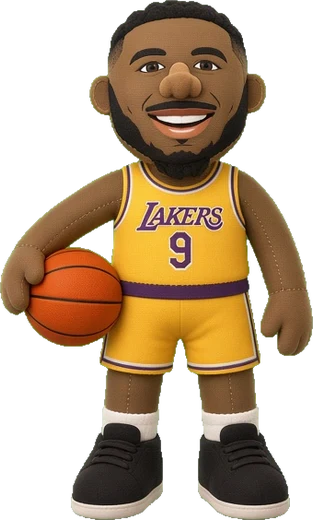
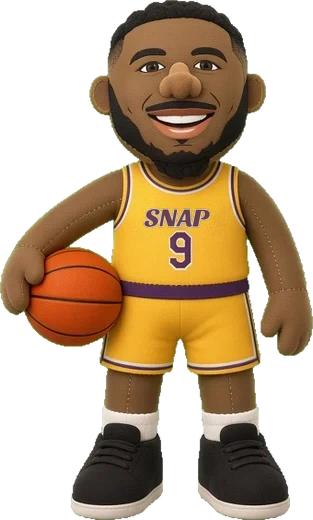
Pinco Pooh Snap v1.1.1: original SNAP wordmark on Bronny's jersey, fresh 3D course-card thumbnails

Changed region(s): [[0.4313, 0.3692, 0.7188, 0.4615]]

diff --git a/pincopoohsnap/js/ui.js b/pincopoohsnap/js/ui.js
@@ -38,7 +38,7 @@ const HS={KEY:'pincopoohsnap_v1',lang:'en',scr:'sTitle',reg:'la',
   $('mRegs').innerHTML=REGIONS.map(r=>{const first=COURSES.findIndex(c=>c.reg===r.id);const ok=this.unlockedIdx(first);return`<button class="chip ${r.id===this.reg?'on':''} ${ok?'':'lock'}" data-reg="${r.id}">${ok?'':'🔒 '}${this.L(r)}</button>`;}).join('');
   $('mRegs').querySelectorAll('[data-reg]').forEach(b=>b.onclick=()=>{AU.play('ui');this.reg=b.dataset.reg;this.renderMap();});
   $('mList').innerHTML=COURSES.map((co,i)=>{if(co.reg!==this.reg)return'';const ok=this.unlockedIdx(i);const prev=COURSES[i-1];
-   return`<div class="ccard ${ok?'':'lock'}" data-i="${i}"><div class="cimg" style="background-image:url(art/bg_${co.bg}.webp)">${s.secrets[co.id]?'<span class="sec">★</span>':''}${co.fork?'<span class="fork">🔀</span>':''}</div>
+   return`<div class="ccard ${ok?'':'lock'}" data-i="${i}"><div class="cimg" style="background-image:url(art/th_${co.id}.webp)">${s.secrets[co.id]?'<span class="sec">★</span>':''}${co.fork?'<span class="fork">🔀</span>':''}</div>
     <div class="cinfo"><b>${this.L(co)}</b><small>${ok?this.L(co.blurb):this.T('needPts',{n:co.need.toLocaleString(),c:prev?this.L(prev):''})}</small>${ok&&s.best[co.id]?`<em>${this.T('best')} ${s.best[co.id].toLocaleString()}</em>`:''}</div>
     <button class="btn ${ok?'pink':''} go" ${ok?'':'disabled'}>${ok?this.T('go'):'🔒'}</button></div>`;}).join('');
   $('mList').querySelectorAll('.ccard').forEach(c=>{const i=+c.dataset.i;c.onclick=()=>{if(!this.unlockedIdx(i)){AU.play('back');return;}AU.play('ui');this.play(COURSES[i]);};});
@@ -51,7 +51,7 @@ const HS={KEY:'pincopoohsnap_v1',lang:'en',scr:'sTitle',reg:'la',
   this.rv.groups=groups;const keys=CAST_ORDER.filter(c=>groups[c]);
   if(!keys.length){this.summary();return;}
   for(const c of keys){let best=null,bv=-1;for(const p of groups[c]){const v=G.evalPhoto(p).total;if(v>bv){bv=v;best=p;}}this.rv.sel[c]=best.id;}
-  $('rGroups').innerHTML=keys.map(c=>`<div class="rg"><div class="rgh"><img src="art/c_${c}_1.webp" alt=""><b>${this.cn(c)}</b><small>×${groups[c].length}</small></div><div class="rrow">${groups[c].map(p=>`<button class="ph ${this.rv.sel[c]===p.id?'on':''}" data-c="${c}" data-id="${p.id}" style="background-image:url(${p.img})"></button>`).join('')}</div></div>`).join('');
+  $('rGroups').innerHTML=keys.map(c=>`<div class="rg"><div class="rgh"><img src="art/c_${c}_1.webp?v=${window.__BUILD__||''}" alt=""><b>${this.cn(c)}</b><small>×${groups[c].length}</small></div><div class="rrow">${groups[c].map(p=>`<button class="ph ${this.rv.sel[c]===p.id?'on':''}" data-c="${c}" data-id="${p.id}" style="background-image:url(${p.img})"></button>`).join('')}</div></div>`).join('');
   $('rGroups').querySelectorAll('.ph').forEach(b=>b.onclick=()=>{AU.play('tick');const c=b.dataset.c,id=+b.dataset.id;if(this.rv.sel[c]===id)delete this.rv.sel[c];else this.rv.sel[c]=id;$('rGroups').querySelectorAll(`.ph[data-c="${c}"]`).forEach(x=>x.classList.toggle('on',this.rv.sel[c]===+x.dataset.id));$('rShow').disabled=!Object.keys(this.rv.sel).length;});
   $('rShow').disabled=false;$('rPick').classList.add('on');$('rGroups').scrollTop=0;
   $('rShow').onclick=()=>{AU.play('ui');this.rv.items=CAST_ORDER.filter(c=>this.rv.sel[c]!==undefined).map(c=>photos[this.rv.sel[c]]);this.rv.k=0;$('rPick').classList.remove('on');$('rEval').classList.add('on');this.evalNext();};},
@@ -79,7 +79,7 @@ const HS={KEY:'pincopoohsnap_v1',lang:'en',scr:'sTitle',reg:'la',
   $('sNews').innerHTML=rv.news.map(n=>`<div>${n}</div>`).join('');$('rSum').classList.add('on');AU.jingle();
   $('sDone').onclick=()=>{AU.play('ui');const ni=COURSES.findIndex((c,i)=>!before[i]&&this.unlockedIdx(i));if(ni>=0)this.reg=COURSES[ni].reg;this.show('sMap');};},
  // ---------- album / requests ----------
- renderAlbum(){const s=this.state;const cards=CAST_ORDER.map(c=>{const a=s.album[c];return`<button class="acard ${a?'':'empty'}" data-c="${c}">${a&&a.img?`<div class="aimg" style="background-image:url(${a.img})"></div>`:`<div class="aimg sil"><img src="art/c_${c}_1.webp" alt=""></div>`}<b>${this.cn(c)}</b><small>${a?a.score.toLocaleString()+' '+this.T('pts'):this.T('unseen')}</small></button>`;}).join('');
+ renderAlbum(){const s=this.state;const cards=CAST_ORDER.map(c=>{const a=s.album[c];return`<button class="acard ${a?'':'empty'}" data-c="${c}">${a&&a.img?`<div class="aimg" style="background-image:url(${a.img})"></div>`:`<div class="aimg sil"><img src="art/c_${c}_1.webp?v=${window.__BUILD__||''}" alt=""></div>`}<b>${this.cn(c)}</b><small>${a?a.score.toLocaleString()+' '+this.T('pts'):this.T('unseen')}</small></button>`;}).join('');
   const sp=COURSES.filter(co=>s.specials[co.id]).map(co=>{const x=s.specials[co.id];return`<button class="acard sp" data-s="${co.id}"><div class="aimg" style="background-image:url(${x.img})"></div><b>★ ${this.L(co.secret)}</b><small>${this.L(co)}</small></button>`;}).join('');
   $('aGrid').innerHTML=cards+`<h3 class="ah">${this.T('specials')} (${Object.keys(s.specials).length}/${COURSES.length})</h3>`+(sp||`<p class="hint">—</p>`);
   $('aGrid').querySelectorAll('[data-c],[data-s]').forEach(b=>b.onclick=()=>{const a=b.dataset.c?s.album[b.dataset.c]:s.specials[b.dataset.s];if(!a||!a.img)return;AU.play('ui');const co=COURSES.find(c=>c.id===a.course||c.id===b.dataset.s);

diff --git a/pincopoohsnap/index.html b/pincopoohsnap/index.html
@@ -8,8 +8,8 @@
 <link rel="icon" href="icon-192.png">
 <link rel="apple-touch-icon" href="apple-touch-icon.png">
 <link rel="manifest" href="manifest.json">
-<link rel="stylesheet" href="style.css?v=1.1">
-<script>window.__BUILD__='v1.1';</script>
+<link rel="stylesheet" href="style.css?v=1.1.1">
+<script>window.__BUILD__='v1.1.1';</script>
 </head>
 <body>
 <div id="app">
@@ -125,14 +125,14 @@
  <div id="toast" class="toast"></div>
 </div>
 <script src="js/three.min.js"></script>
-<script src="js/data.js?v=1.1"></script>
-<script src="js/audio.js?v=1.1"></script>
-<script src="js/world.js?v=1.1"></script>
-<script src="js/props.js?v=1.1"></script>
-<script src="js/sets.js?v=1.1"></script>
-<script src="js/subjects.js?v=1.1"></script>
-<script src="js/game.js?v=1.1"></script>
-<script src="js/ui.js?v=1.1"></script>
+<script src="js/data.js?v=1.1.1"></script>
+<script src="js/audio.js?v=1.1.1"></script>
+<script src="js/world.js?v=1.1.1"></script>
+<script src="js/props.js?v=1.1.1"></script>
+<script src="js/sets.js?v=1.1.1"></script>
+<script src="js/subjects.js?v=1.1.1"></script>
+<script src="js/game.js?v=1.1.1"></script>
+<script src="js/ui.js?v=1.1.1"></script>
 <script>(function(){var B=window.__BUILD__;function nv(s){return String(s||'').replace(/[^0-9.]/g,'').split('.').map(Number)}
 function newer(a,b){a=nv(a);b=nv(b);for(var i=0;i<Math.max(a.length,b.length);i++){var x=a[i]||0,y=b[i]||0;if(x!==y)return x>y}return false}
 function chk(){try{fetch('version.json?t='+Date.now(),{cache:'no-store'}).then(function(r){return r.ok?r.json():null}).then(function(j){if(j&&newer(j.build,B)&&!document.getElementById('updbar')){var d=document.createElement('div');d.id='updbar';d.textContent=(window.HS&&HS.T)?HS.T('updated'):'Update available — tap to reload';d.style.cssText='position:fixed;left:50%;top:calc(10px + env(safe-area-inset-top));transform:translateX(-50%);z-index:99998;background:#ff5aa0;color:#fff;border:3px solid #fff;border-radius:999px;padding:12px 20px;font:800 16px system-ui,sans-serif;box-shadow:0 4px 0 #0003;cursor:pointer;pointer-events:auto;white-space:nowrap';d.onclick=function(e){e.stopPropagation();location.reload()};d.addEventListener('touchstart',function(e){e.stopPropagation();location.reload()},{passive:true});document.body.appendChild(d)}}).catch(function(){})}catch(e){}}

diff --git a/pincopoohsnap/js/subjects.js b/pincopoohsnap/js/subjects.js
@@ -16,7 +16,7 @@ const CONF=[0xff4a8a,0x4ad8ff,0xffd23a,0x7ae05a,0xb07aff];
 class Actor{
  constructor(sp,idx,pos,game){this.sp=sp;this.idx=idx;this.c=sp.c;this.ch=CHARS[sp.c];this.home=pos.clone();this.pos=pos.clone();this.G=game;this.S=game.scene;
   this.b=sp.b;this.state=sp.b==='sleep'?'sleep':sp.b==='hide'?'hide':'idle';this.pose=0;this.timer=1+Math.random()*3;this.look=0;this.tags=new Set();this.dir=1;this.y=0;this.rz=0;this.act=0;this.awake=false;this.hop=0;
-  this.mats=[0,1,2].map(i=>{const n=(i===0&&this.ch.noIdle0)?1:i;const t=W.loadTex('art/c_'+this.c+'_'+n+'.webp');return new THREE.MeshBasicMaterial({map:t,transparent:true,alphaTest:.08,side:THREE.DoubleSide,fog:true});});
+  this.mats=[0,1,2].map(i=>{const n=(i===0&&this.ch.noIdle0)?1:i;const t=W.loadTex('art/c_'+this.c+'_'+n+'.webp?v='+(window.__BUILD__||''));return new THREE.MeshBasicMaterial({map:t,transparent:true,alphaTest:.08,side:THREE.DoubleSide,fog:true});});
   this.geo=new THREE.PlaneGeometry(1,1);this.geo.translate(0,.5,0);this.mesh=new THREE.Mesh(this.geo,this.mats[0]);this.grp=new THREE.Group();this.grp.add(this.mesh);this.S.add(this.grp);
   this.shadow=new THREE.Mesh(new THREE.PlaneGeometry(1,1),new THREE.MeshBasicMaterial({map:FX.t('shadow'),transparent:true,depthWrite:false}));this.shadow.rotation.x=-Math.PI/2;this.S.add(this.shadow);
   this.wanderA=this.home.clone();const t0=game.curve.getTangentAt(Math.min(.99,sp.t));this.tan=new THREE.Vector3(t0.x,0,t0.z).normalize();
